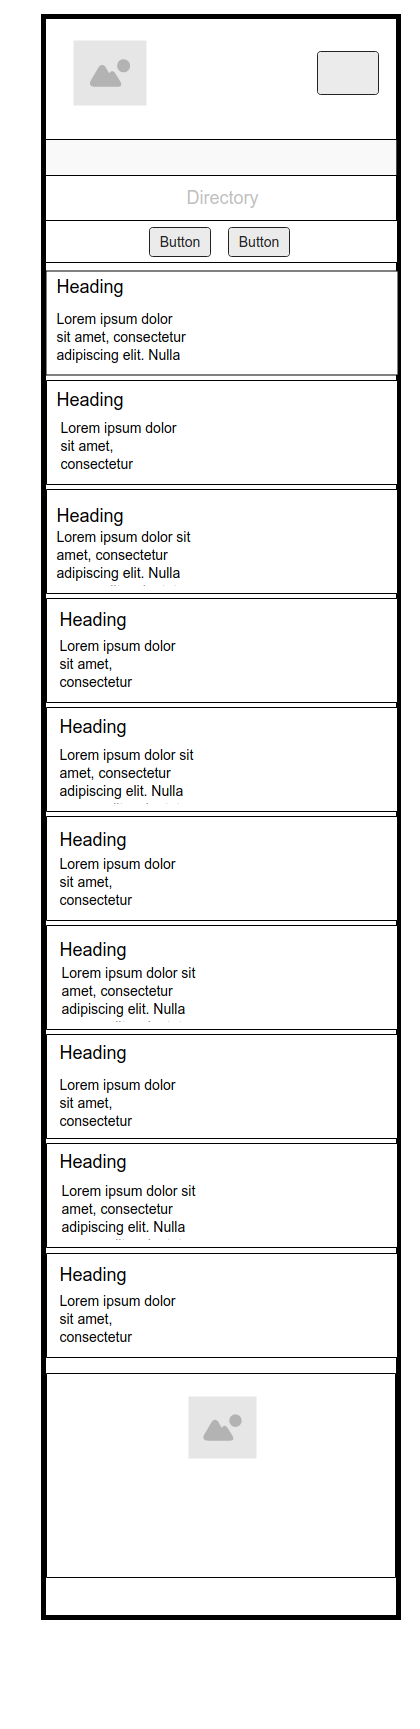
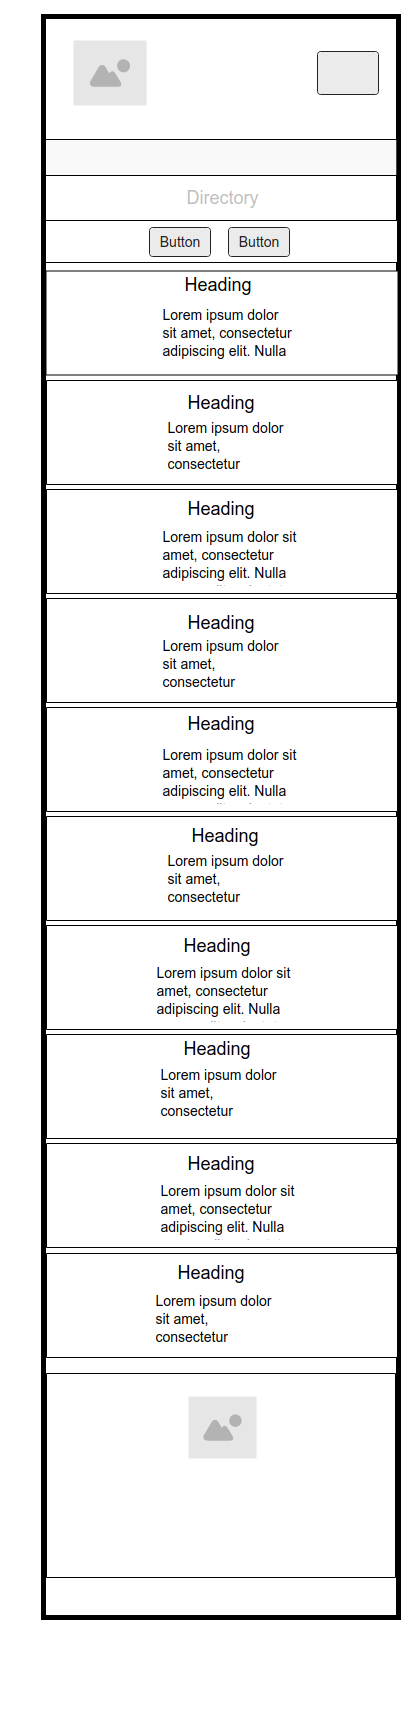
fix

Changed region(s): [[0.1238, 0.1562, 0.681, 0.7808], [0.5881, 0.7496, 0.619, 0.7808]]

diff --git a/chamber/styles/base.css b/chamber/styles/base.css
@@ -409,6 +409,10 @@ form input.submitBtn {
   text-align: center;
   color: #00244c;
 }
+.directory p {
+  text-align: center;
+  margin: 0;
+}
 
 .directory section {
   margin: 0.25rem;
@@ -445,6 +449,7 @@ form input.submitBtn {
 .directory h4 {
   margin: 2px;
   color:#000;
+  /* text-align: center; */
 }
 .directory .grid p {
   margin: -1px;
